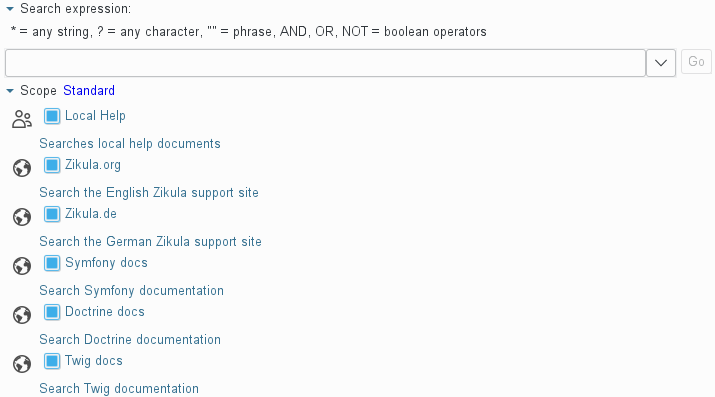
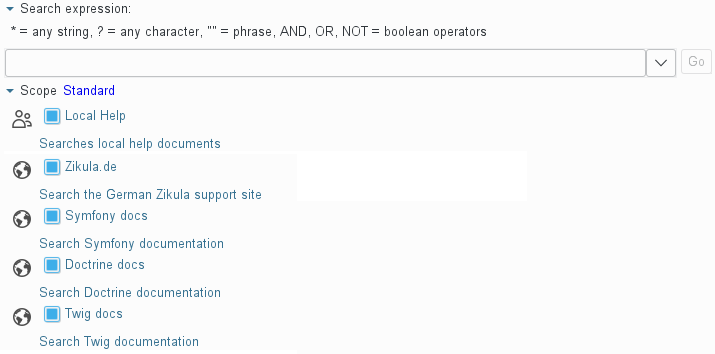
removed obsolete search provider

Changed region(s): [[0.0, 0.0, 0.9846, 1.0]]

diff --git a/bundles/de.guite.modulestudio.help/doc/33-Views.md b/bundles/de.guite.modulestudio.help/doc/33-Views.md
@@ -151,7 +151,7 @@ Note if you search for a keyword, this keyword is highlighted in the results.
 
 ### Searching on web sites
 
-The help view allows you to extend a search to different websites, like the English and German Zikula support sites and documentation for Symfony, Doctrine and Twig.
+The help view allows you to extend a search to different websites, like the (German) Zikula support site and documentation for Symfony, Doctrine and Twig.
 
 ![Search options in help view](images/ui_views_help_search_options.png "Search options in help view")
 
